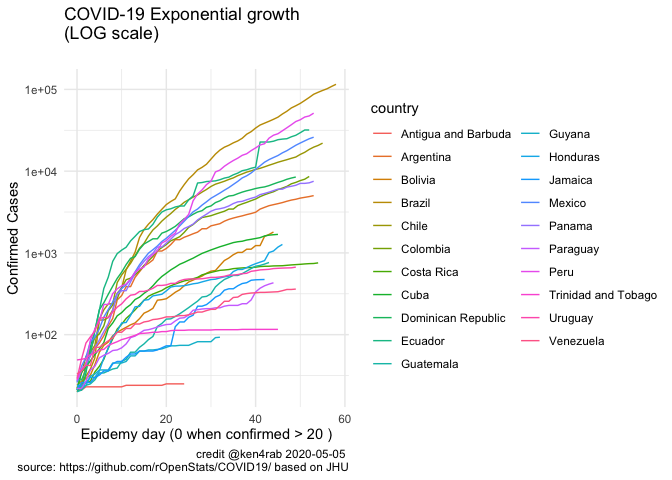
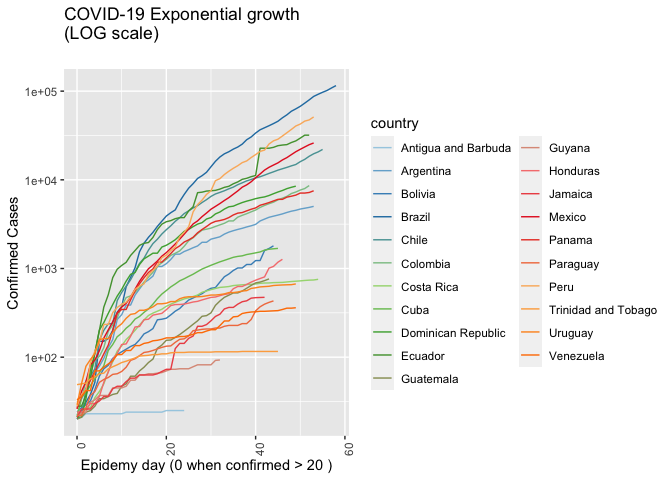
[bugfix] Colors applied for all dataviz

diff --git a/README.md b/README.md
@@ -76,14 +76,14 @@ library(COVID19analytics) # Optional but strongly recommended
 ``` r
 data.processor <- COVID19DataProcessor$new(force.download = FALSE)
 dummy <- data.processor$curate()
-#> INFO  [21:45:50.343]  {stage: data loaded}
+#> INFO  [22:22:24.252]  {stage: data loaded}
 #> Warning in countrycode(x, origin = "country.name", destination = "continent"): Some values were not matched unambiguously: MS Zaandam
-#> INFO  [21:45:52.465]  {stage: consolidated}
-#> INFO  [21:45:53.317]  {stage: Starting first imputation}
-#> INFO  [21:45:53.318] Imputation indicator {indicator: confirmed}
-#> INFO  [21:45:53.360] Imputation indicator {indicator: recovered}
-#> INFO  [21:45:53.445] Imputation indicator {indicator: deaths}
-#> INFO  [21:45:54.604]  {stage: Calculating top countries}
+#> INFO  [22:22:26.451]  {stage: consolidated}
+#> INFO  [22:22:27.295]  {stage: Starting first imputation}
+#> INFO  [22:22:27.297] Imputation indicator {indicator: confirmed}
+#> INFO  [22:22:27.337] Imputation indicator {indicator: recovered}
+#> INFO  [22:22:27.416] Imputation indicator {indicator: deaths}
+#> INFO  [22:22:28.620]  {stage: Calculating top countries}
 
 rg <- ReportGeneratorEnhanced$new(data.processor)
 rc <- ReportGeneratorDataComparison$new(data.processor = data.processor)
@@ -125,30 +125,16 @@ rc$ggplotComparisonExponentialGrowth(included.countries = international.countrie
 <img src="man/figures/README-unnamed-chunk-4-2.png" width="100%" />
 
 ``` r
-rg$ggplotTopCountriesStackedBarDailyInc(top.countries)
-#> Warning: Removed 2 rows containing missing values (position_stack).
+rg$ggplotTopCountriesLines(field = "confirmed.inc", log.scale = TRUE)
 ```
 
 <img src="man/figures/README-unnamed-chunk-5-1.png" width="100%" />
 
 ``` r
-rc$ggplotComparisonExponentialGrowth(included.countries = international.countries, 
-                                               min.cases = 100)
-```
-
-<img src="man/figures/README-unnamed-chunk-5-2.png" width="100%" />
-
-``` r
-rg$ggplotTopCountriesLines(field = "confirmed.inc", log.scale = TRUE)
-```
-
-<img src="man/figures/README-unnamed-chunk-6-1.png" width="100%" />
-
-``` r
 rg$ggplotTopCountriesLines(field = "rate.inc.daily", log.scale = FALSE)
 ```
 
-<img src="man/figures/README-unnamed-chunk-6-2.png" width="100%" />
+<img src="man/figures/README-unnamed-chunk-5-2.png" width="100%" />
 
 ``` r
 rg$ggplotTopCountriesPie()
@@ -156,14 +142,16 @@ rg$ggplotTopCountriesPie()
 #> will replace the existing scale.
 ```
 
-<img src="man/figures/README-unnamed-chunk-7-1.png" width="100%" />
+<img src="man/figures/README-unnamed-chunk-6-1.png" width="100%" />
 
 ``` r
 rg$ggplotTopCountriesBarPlots()
 ```
 
+<img src="man/figures/README-unnamed-chunk-6-2.png" width="100%" />
+
 ``` r
 rg$ggplotCountriesBarGraphs(selected.country = "Argentina")
-#> Scale for 'fill' is already present. Adding another scale for 'fill', which
-#> will replace the existing scale.
 ```
+
+<img src="man/figures/README-unnamed-chunk-7-1.png" width="100%" />
